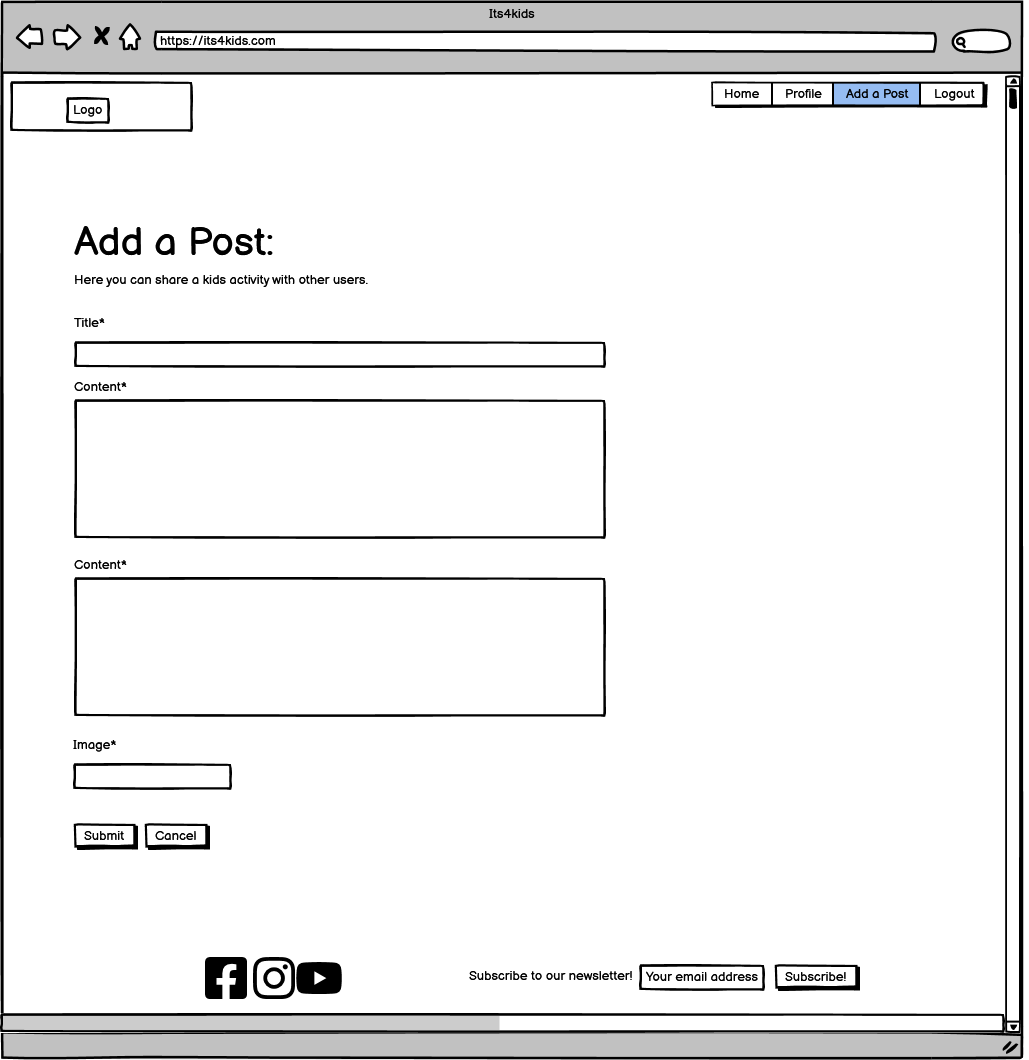
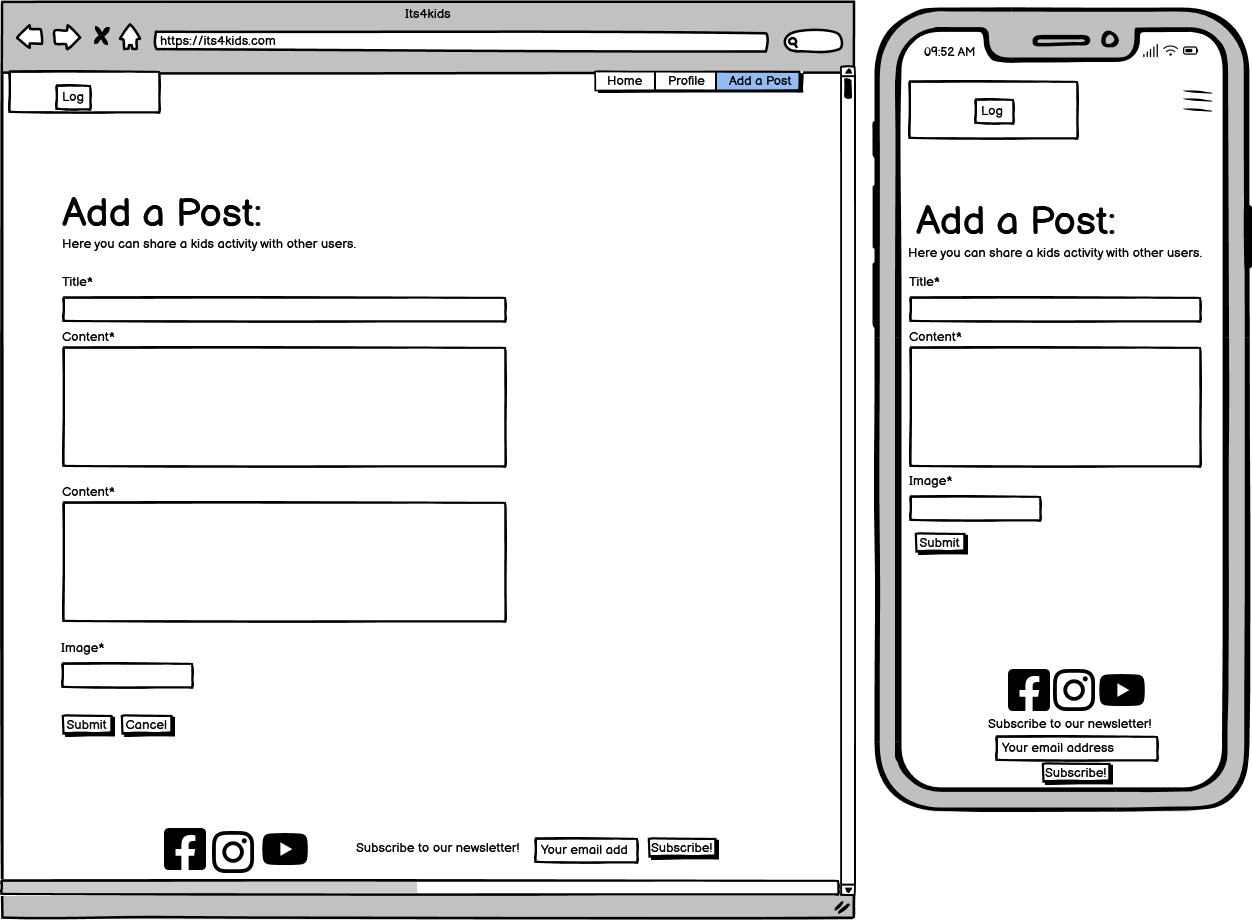
Update wireframes for mobile and add post detail page

diff --git a/README.md b/README.md
@@ -131,7 +131,7 @@ The wireframes for Its4kids website were developed on [Balsamiq](https://balsami
 
 <details><summary><b>Post Detail</b></summary>
 
-<img src="./static/images/readme/Its4kids-post_detail.png" alt="Post Detail page Wireframe"></details>
+<img src="./static/images/readme/Its4kids-post_detail.jpg" alt="Post Detail page Wireframe"></details>
  
 
 <details><summary><b>Add Post</b></summary>
